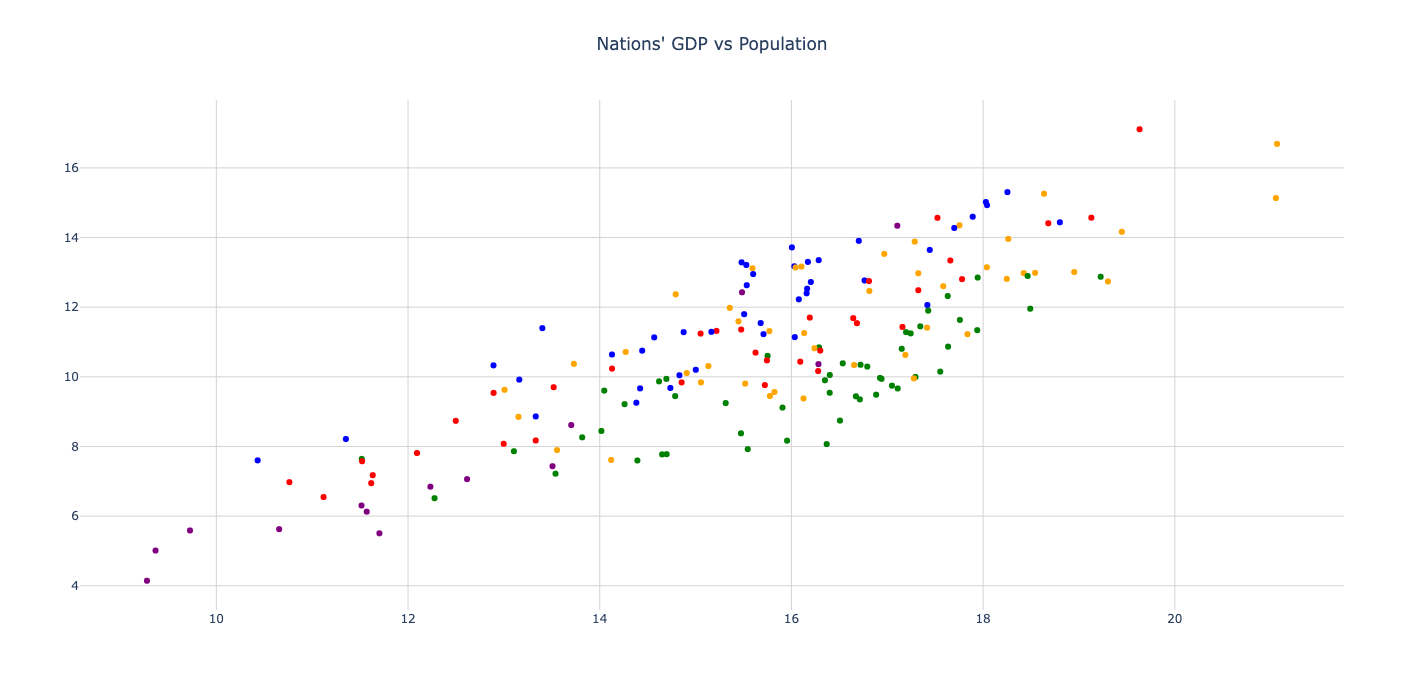
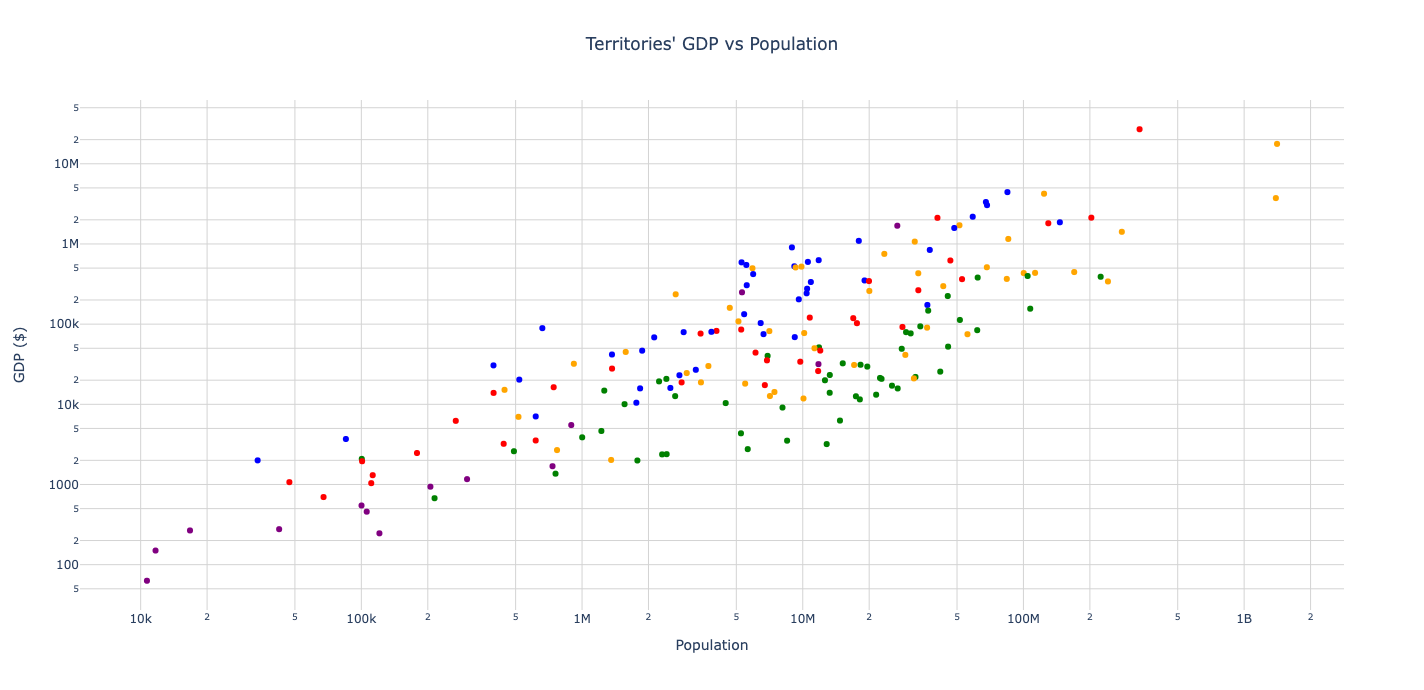
Fix Screenshot and Finalize readme

diff --git a/skewed_scatterplot/display_loggdp.py b/skewed_scatterplot/display_loggdp.py
@@ -25,9 +25,11 @@ data.append(go.Scatter(x=df['Population'],
 				hoverinfo='text',
 				mode='markers'))
 # Layout
-layout = {'title':{'text':'Nations\' GDP vs Population', 'x':0.5},
-			'xaxis': {'gridcolor': 'lightgray','type':'log'},
-			'yaxis': {'gridcolor': 'lightgray','type':'log'},
+layout = {'title':{'text':'Territories\' GDP vs Population', 'x':0.5},
+			'xaxis': {'title':'Population', 'gridcolor': 'lightgray',
+				'type':'log'},
+			'yaxis': {'title':'GDP ($)', 'gridcolor': 'lightgray',
+			'type':'log'},
 			'plot_bgcolor': 'rgba(0,0,0,0)'}
 
 fig = go.Figure(data=data, layout=layout)

diff --git a/skewed_scatterplot/display_gdp.py b/skewed_scatterplot/display_gdp.py
@@ -22,9 +22,9 @@ data.append(go.Scatter(x=df['Population'], y=df['Nominal_GDP'],
 				hoverinfo='text',
 				mode='markers'))
 # Layout
-layout = {'title':{'text':'Nations\' GDP vs Population', 'x':0.5},
-			'xaxis': {'gridcolor': 'lightgray'},
-			'yaxis': {'gridcolor': 'lightgray'},
+layout = {'title':{'text':'Territories\' GDP vs Population', 'x':0.5},
+			'xaxis': {'title':'Population', 'gridcolor': 'lightgray'},
+			'yaxis': {'title':'GDP ($)', 'gridcolor': 'lightgray'},
 			'plot_bgcolor': 'rgba(0,0,0,0)'}
 
 fig = go.Figure(data=data, layout=layout)

diff --git a/README.md b/README.md
@@ -5,4 +5,4 @@ This repository contains supplemental notes and scripts for my Medium posts on d
 When the data is very skewed, it is very hard to read on the bar chart. In order to fix it, we may take a logarithm to the data to reduce the skewness effect. This [folder](/skewed_barchart) contains the notes and script for this Medium <a href="https://medium.com/@jjsham/a-better-way-to-display-skewed-data-on-a-bar-chart-b7400faeb859">post</a>.
 
 ## Scatter Plot with Skewed Data
-Coming soon...
+Skewed data is more common in numeric data, and it is more likely happened on a scatterplot. We can also take a logarithm to fix this. This [folder](/skewed_scatterplot)  contains the notes and script for this Medium <a href="">post (Coming soon)</a>.
